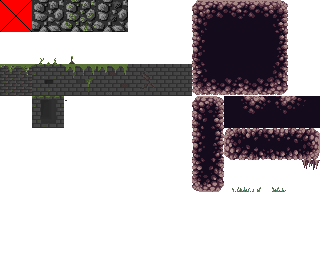
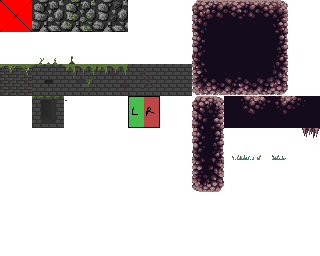
tile flipping and rotating

diff --git a/tilemap.c b/tilemap.c
@@ -24,12 +24,47 @@ static void draw_layer(SDL_Renderer* r, const tmx_map* map, const tmx_layer* lay
 	SDL_Rect src_rect; // source rectangle for the texture
 	SDL_Rect dst_rect; // target rectangle, where the place the src_rect.
 
+
 	uint8_t opacity = layer->opacity * 255;
 	uintmax_t gid;
 	for (uintmax_t i = 0; i < map->height; i++) {
 		for (uintmax_t j = 0; j < map->width; j++) {
+			SDL_RendererFlip flip = SDL_FLIP_NONE;
+			double rotate = 0;
+
 			int idx = i * map->width + j;
 			gid = layer->content.gids[idx];
+
+			bool flipped_horizontally = (gid & TMX_FLIPPED_HORIZONTALLY);
+			bool flipped_vertically   = (gid & TMX_FLIPPED_VERTICALLY);
+			bool flipped_diagonally   = (gid & TMX_FLIPPED_DIAGONALLY);
+
+			// XXX: what a clusterfuck this is. What am I missing here?
+			// This part just screams "I don't get these flags" and begs
+			// for a bit of refactoring.
+			if (flipped_diagonally) {
+				if (flipped_horizontally && flipped_vertically) {
+					rotate = 90;
+					flip |= SDL_FLIP_HORIZONTAL;
+				} else if (flipped_horizontally) {
+					rotate = 90;
+				} else if (flipped_vertically) {
+					rotate = -90;
+				} else {
+					rotate = 90;
+					flip |= SDL_FLIP_VERTICAL;
+				}
+			} else {
+				if (flipped_horizontally) {
+					flip |= SDL_FLIP_HORIZONTAL;
+				}
+				if (flipped_vertically) {
+					flip |= SDL_FLIP_VERTICAL;
+				}
+			}
+
+			// Always clear the motherflippin' bits :)
+			gid &= TMX_FLIP_BITS_REMOVAL;
 			if (map->tiles[gid] == NULL) {
 				continue;
 			}
@@ -48,7 +83,7 @@ static void draw_layer(SDL_Renderer* r, const tmx_map* map, const tmx_layer* lay
 			dst_rect.h = tileheight;
 
 			SDL_SetTextureAlphaMod(tileset_texture, opacity);
-			SDL_RenderCopy(r, tileset_texture, &src_rect, &dst_rect);
+			SDL_RenderCopyEx(r, tileset_texture, &src_rect, &dst_rect, rotate, NULL, flip);
 		}
 	}
 }
